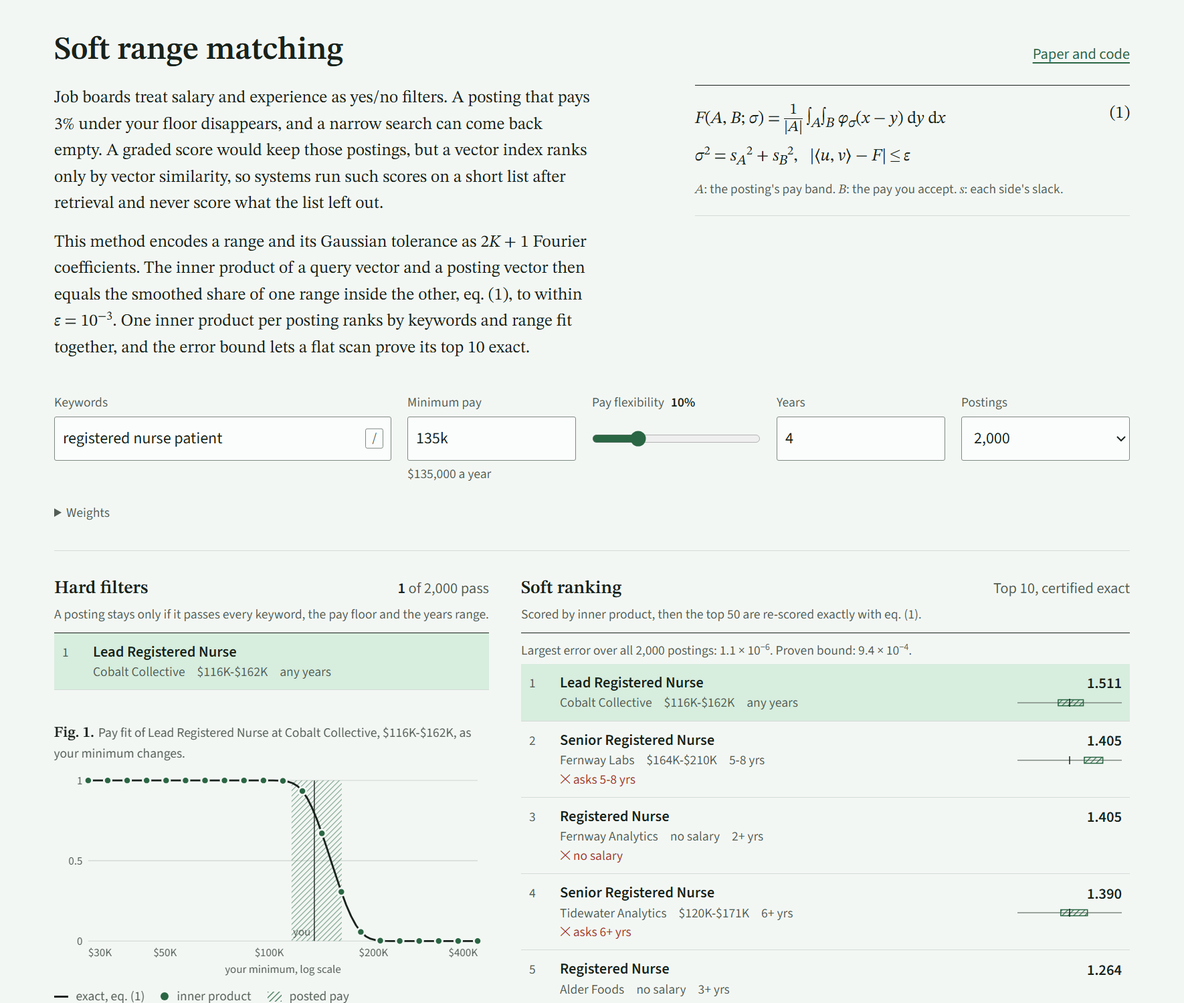
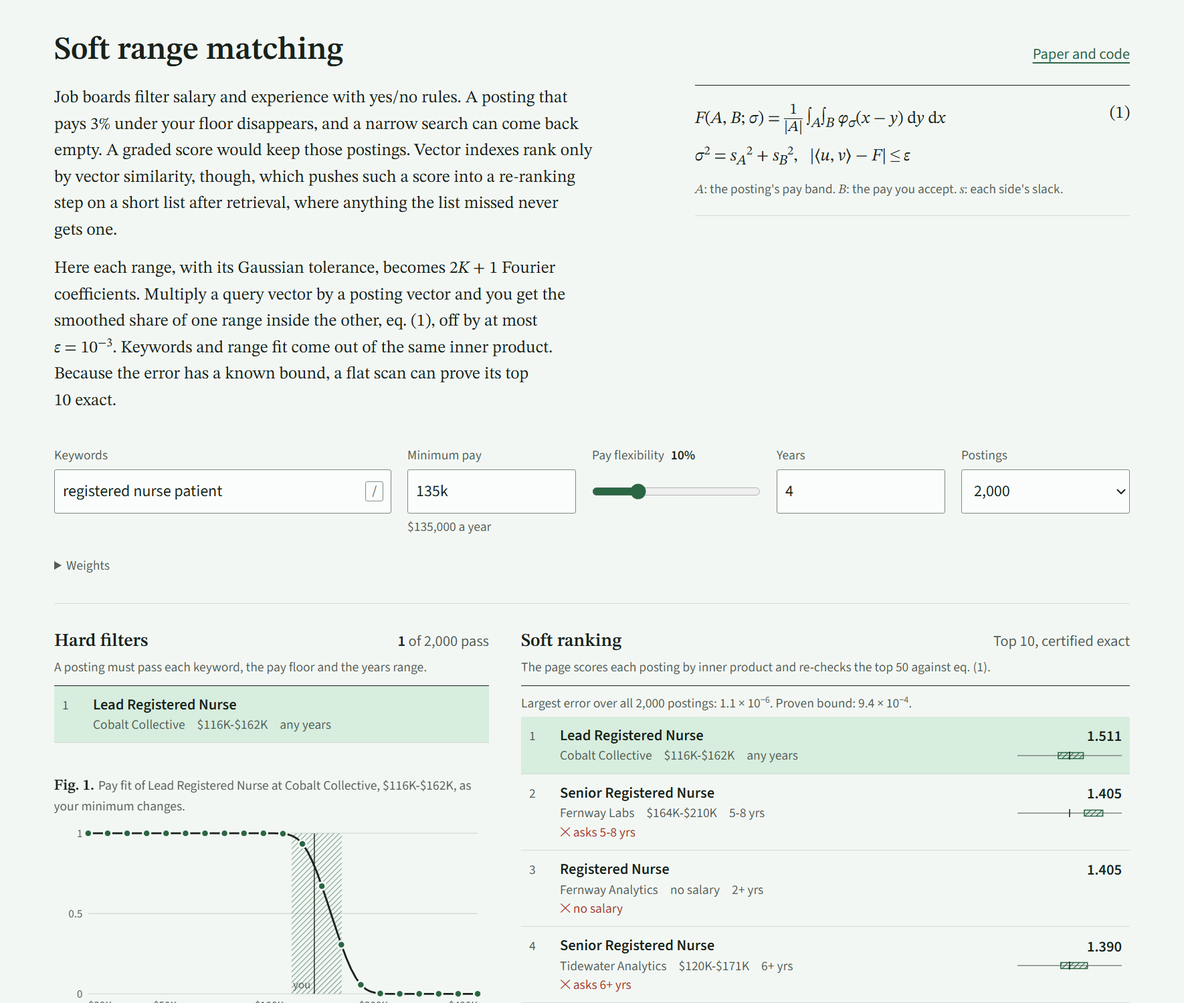
Rewrite the docs and demo text in plainer sentences

diff --git a/demo/index.html b/demo/index.html
@@ -144,8 +144,8 @@ th { font-weight: 600; color: var(--muted); border-bottom: var(--hair) solid var
     <a href="https://github.com/Juuzoe/ap-alg">Paper and code</a>
   </div>
   <div class="abstract">
-    <p>Job boards treat salary and experience as yes/no filters. A posting that pays 3% under your floor disappears, and a narrow search can come back empty. A graded score would keep those postings, but a vector index ranks only by vector similarity, so systems run such scores on a short list after retrieval and never score what the list left out.</p>
-    <p>This method encodes a range and its Gaussian tolerance as 2<var>K</var> + 1 Fourier coefficients. The inner product of a query vector and a posting vector then equals the smoothed share of one range inside the other, eq. (1), to within <span class="nw"><var>ε</var> = 10<sup>&minus;3</sup></span>. One inner product per posting ranks by keywords and range fit together, and the error bound lets a flat scan prove its top 10 exact.</p>
+    <p>Job boards filter salary and experience with yes/no rules. A posting that pays 3% under your floor disappears, and a narrow search can come back empty. A graded score would keep those postings. Vector indexes rank only by vector similarity, though, which pushes such a score into a re-ranking step on a short list after retrieval, where anything the list missed never gets one.</p>
+    <p>Here each range, with its Gaussian tolerance, becomes 2<var>K</var> + 1 Fourier coefficients. Multiply a query vector by a posting vector and you get the smoothed share of one range inside the other, eq. (1), off by at most <span class="nw"><var>ε</var> = 10<sup>&minus;3</sup></span>. Keywords and range fit come out of the same inner product. Because the error has a known bound, a flat scan can prove its top 10 exact.</p>
   </div>
   <div class="eq" role="math" aria-label="F of A and B with scale sigma is one over the length of A, times the double integral over A and B of the normal density of x minus y. Sigma squared is s A squared plus s B squared. The inner product of u and v differs from F by at most epsilon.">
     <p><var>F</var>(<var>A</var>, <var>B</var>; <var>σ</var>) = <span class="frac"><span>1</span><span>|<var>A</var>|</span></span> ∫<sub><var>A</var></sub>∫<sub><var>B</var></sub> <var>φ</var><sub><var>σ</var></sub>(<var>x</var> &minus; <var>y</var>) d<var>y</var> d<var>x</var></p>

diff --git a/paper/soft-range-matching.md b/paper/soft-range-matching.md
@@ -4,7 +4,7 @@ October 2026 · version 0.1 · code and benchmarks: [github.com/Juuzoe/ap-alg](h
 
 ## Abstract
 
-A salary or experience filter makes a yes/no decision, so a posting that pays 3% under a seeker's floor disappears and a narrow search can return nothing. A graded alternative scores the share of one range that falls inside another after Gaussian smoothing. That score has a closed form, but a vector index cannot evaluate a closed form, so systems apply it to a shortlist after retrieval. We show that the smoothed containment score, with an independent slack on the query side and on the stored side, equals the inner product of two Fourier feature vectors up to an error with a closed-form bound. The bound depends on the axis length and on the smallest and largest combined slack, so a target error fixes the vector length: 133 numbers for a salary range and 113 for an experience range at error $`10^{-3}`$. Over 4 million synthetic seeker-posting pairs the largest observed error was $`3.4\times10^{-4}`$. Every fused score lies within a known $`\Delta`$ of its exact value, which lets a flat scan prove its top 10 exact after re-scoring 50 of 20,000 postings. A k-means inverted file handles the concatenated vectors worse than text vectors: scanning 11% of the postings recovers 76% of the exact top 10, while text vectors with a 1,000-candidate re-score recover all of it. We release the code and the benchmarks under Apache 2.0.
+A salary or experience filter makes a yes/no decision. A posting that pays 3% under a seeker's floor disappears, and a narrow search can return nothing. A graded alternative scores the share of one range that falls inside another after Gaussian smoothing. That score has a closed form. A vector index cannot evaluate it, and systems end up applying it to a shortlist after retrieval. We show that the smoothed containment score, with an independent slack on the query side and on the stored side, equals the inner product of two Fourier feature vectors up to an error with a closed-form bound. Because the bound depends on the axis length and on the smallest and largest combined slack, a target error fixes the vector length: 133 numbers for a salary range and 113 for an experience range at error $`10^{-3}`$. Over 4 million synthetic seeker-posting pairs the largest observed error was $`3.4\times10^{-4}`$. Every fused score lies within a known $`\Delta`$ of its exact value, which lets a flat scan prove its top 10 exact after re-scoring 50 of 20,000 postings. A k-means inverted file handles the concatenated vectors worse than text vectors: scanning 11% of the postings recovers 76% of the exact top 10, while text vectors with a 1,000-candidate re-score recover all of it. We release the code and the benchmarks under Apache 2.0.
 
 ## 1 Introduction
 
@@ -14,7 +14,7 @@ The graded alternative studied here is the expected share of one interval that l
 
 This paper makes four contributions.
 
-1. An encoding of smoothed interval containment as an inner product in which each side carries its own Gaussian slack, so a query can change its tolerance without re-encoding the stored vectors (Section 3.2).
+1. An encoding of smoothed interval containment as an inner product in which each side carries its own Gaussian slack. A query can change its tolerance without re-encoding the stored vectors (Section 3.2).
 2. A deterministic bound on the encoding error that depends only on the axis and the slack range, and a rule that derives the vector length from a target error (Theorem 1, Corollary 1).
 3. Certified top-k retrieval for fused text-and-range scores, using the stopping rule of Seidl and Kriegel [10] with the bound from Theorem 1 (Proposition 2).
 4. An evaluation on a synthetic job market covering accuracy, alternative encodings of equal size, certified retrieval, a text-shortlist baseline and an inverted-file index (Section 5).
@@ -23,7 +23,7 @@ The mathematics is classical, and Section 6 lists the published work each compon
 
 ## 2 Problem
 
-All values for one attribute live on an axis $`[0, D]`$. Salary uses $`t = \ln(\text{pay}/15{,}000)`$ with pay in a year, so that a 10% tolerance has the same width at every pay level; experience uses years. An interval is $`I = [a, b]`$ with midpoint $`m = (a+b)/2`$, half-width $`h = (b-a)/2`$ and length $`\lvert I\rvert = b - a`$. A point is the interval with $`a = b`$. We truncate open-ended ranges such as "5+ years" at $`D + E`$, and the whole working domain is $`\Omega = [-E, D + E]`$.
+All values for one attribute live on an axis $`[0, D]`$. Salary uses $`t = \ln(\text{pay}/15{,}000)`$ with pay in a year, so that a 10% tolerance has the same width at every pay level. Experience uses years. An interval is $`I = [a, b]`$ with midpoint $`m = (a+b)/2`$, half-width $`h = (b-a)/2`$ and length $`\lvert I\rvert = b - a`$. A point is the interval with $`a = b`$. We truncate open-ended ranges such as "5+ years" at $`D + E`$, and the whole working domain is $`\Omega = [-E, D + E]`$.
 
 **Definition 1 (soft containment).** For a measured interval $`A`$, a reference interval $`B`$ and a scale $`\sigma > 0`$,
 
@@ -112,7 +112,7 @@ The terms of $`R_W`$ with $`j \ge 1`$ are below $`10^{-80}`$ for every axis in t
 
 **Corollary 1.** Given $`\varepsilon`$, set $`E = \sigma_{\max}\max(4, \bar\Phi^{-1}(\varepsilon/4))`$ and $`W = \sigma_{\max}\max(3, \bar\Phi^{-1}(\varepsilon/8)/2)`$, and take the smallest $`K`$ for which the bound of Theorem 1, open-end term included, is at most $`\varepsilon`$. Every pair then meets the requirement of Section 2 with $`d = 2K + 1`$, and $`K`$ grows in proportion to $`(P/\sigma_{\min})\sqrt{\ln(1/\varepsilon)}`$.
 
-The growth rate follows from $`e^{-cK^2} \approx \varepsilon`$. Doubling the axis or halving the smallest slack doubles the length, while each tenfold tightening of $`\varepsilon`$ adds about 30 numbers to a block at the settings of Section 3.6 (see the table there). The same scaling explains the logarithmic salary axis: a linear axis from \$15k to \$600k with the same relative tolerances would need many times more harmonics. The implementation accepts $`\varepsilon \ge 10^{-9}`$; below that, rounding in the closed form of Definition 1 exceeds $`\varepsilon`$ on wide axes, so the reference value itself stops being exact enough to test against.
+The growth rate follows from $`e^{-cK^2} \approx \varepsilon`$. Doubling the axis or halving the smallest slack doubles the length, while each tenfold tightening of $`\varepsilon`$ adds about 30 numbers to a block at the settings of Section 3.6 (see the table there). The same scaling explains the logarithmic salary axis: a linear axis from \$15k to \$600k with the same relative tolerances would need many times more harmonics. The implementation accepts $`\varepsilon \ge 10^{-9}`$. Below that, rounding in the closed form of Definition 1 exceeds $`\varepsilon`$ on wide axes, and the reference value is no longer exact enough to test against.
 
 ### 3.5 Fused scores and certified top-k
 
@@ -128,7 +128,7 @@ and the vector form concatenates the text embedding with one block per attribute
 
 *Proof.* Any posting $`j > M`$ has $`s_j \le \tilde s_j + \Delta \le \tilde s_{M+1} + \Delta`$, which is at most the $`k`$-th exact score already found. $`\square`$
 
-This is the multi-step k-nearest-neighbor algorithm of Seidl and Kriegel [10] written for similarities, with $`\tilde s + \Delta`$ as the upper bound. Our contribution at this step is the deterministic $`\Delta`$. If the test fails, $`M`$ doubles. A vector database that returns its best $`L + 1`$ results from an exact (flat) search supports the same test: re-score the first $`L`$ and use the $`(L+1)`$-th score as $`\tilde s_{M+1}`$. An approximate index can skip postings, so its results carry no certificate.
+This is the multi-step k-nearest-neighbor algorithm of Seidl and Kriegel [10] written for similarities, with $`\tilde s + \Delta`$ as the upper bound. Our contribution at this step is the deterministic $`\Delta`$. If the test fails, $`M`$ doubles. A vector database that returns its best $`L + 1`$ results from an exact (flat) search supports the same test: re-score the first $`L`$ and use the $`(L+1)`$-th score as $`\tilde s_{M+1}`$. Results from an approximate index carry no certificate, because the index can skip postings.
 
 ### 3.6 Instantiation for a job board
 
@@ -147,13 +147,13 @@ A posting without a salary scores a constant $`p_{\text{miss}}`$ (0.5 by default
 
 ## 4 Cost
 
-Encoding an interval takes $`K`$ sines, cosines and exponentials, once per posting at indexing time and once per query. Scoring a posting is one inner product of length $`d`$. The closed form of Definition 1 needs four evaluations of the normal CDF and four exponentials per pair. In plain JavaScript on one core, a scan of 20,000 postings took 13 to 20 ms with inner products and 15 to 16 ms with the closed form, so per pair the two cost about the same. The encoding pays off where an engine can rank only by inner product, as a vector index does, or where a system scores many queries at once as a matrix product on BLAS or a GPU.
+Encoding an interval takes $`K`$ sines, cosines and exponentials, once per posting at indexing time and once per query. Scoring a posting is one inner product of length $`d`$. The closed form of Definition 1 needs four evaluations of the normal CDF and four exponentials per pair. In plain JavaScript on one core, a scan of 20,000 postings took 13 to 20 ms with inner products and 15 to 16 ms with the closed form. Per pair, the two cost about the same. The encoding pays off where an engine can rank only by inner product, as a vector index does, or where a system scores many queries at once as a matrix product on BLAS or a GPU.
 
 ## 5 Experiments
 
 ### 5.1 Setup
 
-The benchmark generates a seeded synthetic market (`bench/market.js`). It has 20 roles at four levels. Salaries follow a log-normal spread around a role base times a level multiplier, with band half-widths between 5% and 20%. A quarter of the postings list no salary and a tenth list a single figure. Years requirements are absent for 10% of postings, open-ended ("$`r`$+") for 45% and bounded for 45%. Each posting's text vector is a 64-dimensional hashed bag of words over its title and skills. The 200 seekers each target one role, with a minimum salary around that role's pay, a pay flexibility up to 30%, 0 to 12 years of experience and up to 2 years of flexibility. The weights are 1 for text and 0.5 for each range. Everything below comes from `node bench/bench.js` and `node bench/ann.js`; reruns print the same numbers apart from timings.
+The benchmark generates a seeded synthetic market (`bench/market.js`). It has 20 roles at four levels. Salaries follow a log-normal spread around a role base times a level multiplier, with band half-widths between 5% and 20%. A quarter of the postings list no salary and a tenth list a single figure. Years requirements are absent for 10% of postings, open-ended ("$`r`$+") for 45% and bounded for 45%. Each posting's text vector is a 64-dimensional hashed bag of words over its title and skills. The 200 seekers each target one role, with a minimum salary around that role's pay, a pay flexibility up to 30%, 0 to 12 years of experience and up to 2 years of flexibility. The weights are 1 for text and 0.5 for each range. Everything below comes from `node bench/bench.js` and `node bench/ann.js`. Reruns print the same numbers apart from timings.
 
 ### 5.2 Accuracy
 
@@ -182,7 +182,7 @@ Table 2 spends a budget of about 133 numbers on the pay fit in two other ways, w
 | linear interpolation bins | 133 | $`2.2\times10^{-2}`$ | $`8.1\times10^{-4}`$ |
 | random Fourier features | 132 | 1.1 | 0.51 |
 
-Random features fail because they draw frequencies from the whole line, where the transform of an interval oscillates and decays only like $`1/\omega`$; the variance of the estimate stays near the size of the fit itself. Harmonics on the padded circle represent the same function with no error beyond the terms of Theorem 1. Curvature of the smoothed indicator between nodes biases the bins, an error of order $`h^2/\sigma^2`$ for node spacing $`h`$.
+Random features fail because they draw frequencies from the whole line, where the transform of an interval oscillates and decays only like $`1/\omega`$. The variance of the estimate stays near the size of the fit itself. Harmonics on the padded circle represent the same function with no error beyond the terms of Theorem 1. Curvature of the smoothed indicator between nodes biases the bins, an error of order $`h^2/\sigma^2`$ for node spacing $`h`$.
 
 ### 5.4 Certified retrieval
 
@@ -198,7 +198,7 @@ The common alternative ranks by text alone, keeps a shortlist and re-scores it w
 |---|---|---|---|---|
 | recall@10 | 0.480 | 0.792 | 1.000 | 1.000 |
 
-A flat scan of the fused vectors reaches 1.000 with 50 exact re-scores. The text pipeline needs 1,000, which here equals the size of one role in the market; the synthetic text vectors separate roles better than real embeddings would, so we read this as a lower bound on the shortlist a real system needs.
+A flat scan of the fused vectors reaches 1.000 with 50 exact re-scores. The text pipeline needs 1,000, the size of one role in this market. The synthetic text vectors separate roles better than real embeddings would, and we read 1,000 as a lower bound on the shortlist a real system needs.
 
 Table 4 places both kinds of vector in an inverted file with 128 lists, trained by k-means in L2 on a 4,000-posting sample and probed by the inner product between the query and each centroid [15]. For the fused vectors we re-score the best 50 candidates found in the probed lists; for text vectors, the best 1,000.
 
@@ -212,7 +212,7 @@ Table 4 places both kinds of vector in an inverted file with 128 lists, trained 
 | 16 | 10.6% / 11.7% | 0.758 | 1.000 | 1.000 |
 | 32 | 22.9% / 24.8% | 0.916 | 1.000 | 0.999 |
 
-The concatenated vectors make a poor index. Their range blocks have larger norms than the unit-length text block (mean 1.61 for salary and 4.14 for experience), so L2 k-means groups postings by pay and experience first, while the queries in this benchmark weight text twice as much as each range. Probing by centroid inner product then misses lists that hold the best matches. Adding the fused-vector candidates to the text candidates helps at small probe counts (0.939 against 0.884 at four lists). The union's 0.999 at 32 lists, below the 1.000 of text alone, comes from ties: six seekers have an exact tie between their 10th and 11th postings, and the measured recall depends on which tied posting a candidate set contains. On this evidence we recommend a flat scan, which is exact and certified, wherever a scan is affordable, and text-based candidate generation scored with the fused inner product beyond that. A quantizer trained for inner products over the fused vectors, for example with query-aware scaling of each block, may close the gap; we have not tested one.
+The concatenated vectors make a poor index. Their range blocks have larger norms than the unit-length text block (mean 1.61 for salary and 4.14 for experience). With those norms, L2 k-means groups postings by pay and experience first, while the queries in this benchmark weight text twice as much as each range. Probing by centroid inner product then misses lists that hold the best matches. Adding the fused-vector candidates to the text candidates helps at small probe counts (0.939 against 0.884 at four lists). The union's 0.999 at 32 lists, below the 1.000 of text alone, comes from ties: six seekers have an exact tie between their 10th and 11th postings, and the measured recall depends on which tied posting a candidate set contains. On this evidence we recommend a flat scan, which is exact and certified, wherever a scan is affordable, and text-based candidate generation scored with the fused inner product beyond that. A quantizer trained for inner products over the fused vectors, for example with query-aware scaling of each block, may close the gap. We have not tested one.
 
 ### 5.6 Effect on result sets
 
@@ -229,19 +229,19 @@ Of the 2,000 top-10 results of the fused ranking on the full market, 97.8% match
 
 ## 6 Related work
 
-Li et al. [1] convolve box indicators with Gaussians and rank by the volume of the intersection over the volume of one box; in one dimension this is Definition 1. They evaluate it per pair in closed form to train embeddings, without an inner-product form or an error bound. TEMPS [2] maps time intervals to Gaussians and adds a Gaussian-KL inclusion score to a dense retriever's cosine, again per pair and outside the vector product. Wei et al. [3] fold an exponential recency decay into the stored and query vectors so that unmodified inner-product indexes rank by semantic and freshness score together; their method scores one timestamp per item under an exact exponential decay, so intervals and approximation error do not arise.
+Li et al. [1] convolve box indicators with Gaussians and rank by the volume of the intersection over the volume of one box. In one dimension this is Definition 1. They evaluate it per pair in closed form to train embeddings, without an inner-product form or an error bound. TEMPS [2] maps time intervals to Gaussians and adds a Gaussian-KL inclusion score to a dense retriever's cosine, again per pair and outside the vector product. Wei et al. [3] fold an exponential recency decay into the stored and query vectors so that unmodified inner-product indexes rank by semantic and freshness score together. Their method scores one timestamp per item under an exact exponential decay. Intervals and approximation error do not arise there.
 
-Deterministic Fourier features appear in kernel approximation. Dao, De Sa and Ré [4] replace random frequencies with Gaussian quadrature and bound the resulting error, and Jagdt et al. [5] use harmonics on a padded period with Gaussian spectral weights, choosing the smallest truncation that meets a target error, as our Corollary 1 does. Both approximate a kernel between two points, so they never need the transform of an interval or a slack split across two vectors. Mip-NeRF [6] damps Fourier features by $`e^{-\sigma^2\omega^2/2}`$ to integrate them over a Gaussian region, and feeds them to a neural network as input features. Random Fourier features [7] are the standard randomized construction; Section 5.3 shows why they fail on interval integrals at this size.
+Deterministic Fourier features appear in kernel approximation. Dao, De Sa and Ré [4] replace random frequencies with Gaussian quadrature and bound the resulting error, and Jagdt et al. [5] use harmonics on a padded period with Gaussian spectral weights, choosing the smallest truncation that meets a target error, as our Corollary 1 does. Both approximate a kernel between two points and never need the transform of an interval or a slack split across two vectors. Mip-NeRF [6] damps Fourier features by $`e^{-\sigma^2\omega^2/2}`$ to integrate them over a Gaussian region, and feeds them to a neural network as input features. Random Fourier features [7] are the standard randomized construction. Section 5.3 shows why they fail on interval integrals at this size.
 
 Lee, Kim and Chung [8] estimate range selectivity from cosine-series coefficients, which is the same basis-integral inner product, applied to one aggregate density per table. Spatial Semantic Pointers [9] encode a region as the integral of phasor vectors and read graded membership from a dot product, with random frequencies and unit normalization and without a calibrated containment score or an error bound. Range-filtered approximate nearest-neighbor indexes [11, 12] evaluate interval predicates inside graph indexes as yes/no filters. Search engines grade a numeric field with decay functions around a point at scoring time [13], and some vector frameworks encode single numeric values as vector blocks [14]. The certified top-k step is the multi-step k-NN search of Seidl and Kriegel [10]. Shrivastava and Li [16] show that maximum inner product search over vectors of unequal norm differs from cosine search, which is consistent with Table 4.
 
 ## 7 Limitations and future work
 
-All results so far come from synthetic data. Real postings need pay-period and currency normalization, many omit a range, and the posted band may not be the band an employer will accept; evaluating on public postings with salary ranges is the next step.
+All results so far come from synthetic data. Real postings need pay-period and currency normalization, many omit a range, and the posted band may not be the band an employer will accept. Evaluating on public postings with salary ranges is the next step.
 
 The Gaussian slack model gives every value inside a band the same weight and bends both edges by the same amount, while a real employer may stretch upward sooner than downward.
 
-The fused score is additive, so a strong text match can compensate for a poor pay fit. Dealbreakers such as work authorization or location belong in hard filters. A re-score step can apply a soft conjunction, $`w_t\langle e_q, e_p\rangle + (w_{\text{pay}} + w_{\text{years}}) F_{\text{pay}} F_{\text{years}}`$, which never exceeds the additive score when the weights are non-negative and the fits lie in $`[0, 1]`$, so Proposition 2 holds for it.
+Because the fused score is additive, a strong text match can compensate for a poor pay fit. Dealbreakers such as work authorization or location belong in hard filters. A re-score step can apply a soft conjunction, $`w_t\langle e_q, e_p\rangle + (w_{\text{pay}} + w_{\text{years}}) F_{\text{pay}} F_{\text{years}}`$. It never exceeds the additive score when the weights are non-negative and the fits lie in $`[0, 1]`$, and Proposition 2 holds for it.
 
 The proof assumes the engine sums inner products in float64. An engine that does all its arithmetic in float32 measured about $`2\times10^{-6}`$ per unit weight on our data, inside the margin, but its worst case grows with the vector length and we have no proof for it. Each block handles one attribute, and joint ranges over several attributes would need a tensor-product construction whose length multiplies across attributes. The inverted-file results in Section 5.5 leave open how to index the fused vectors at scale without a flat scan.
 

diff --git a/README.md b/README.md
@@ -3,9 +3,11 @@
 [![test](https://github.com/Juuzoe/ap-alg/actions/workflows/test.yml/badge.svg)](https://github.com/Juuzoe/ap-alg/actions/workflows/test.yml)
 [![license](https://img.shields.io/badge/license-Apache--2.0-blue.svg)](LICENSE)
 
-A posting pays \$128k to \$138k. You want \$140k and would take 10% less. A salary filter drops the posting; this library scores it 0.66, and scores a \$90k to \$110k band 0.02. The score comes from a dot product of two fixed-length vectors, so a vector database can rank by text relevance and range fit in one query.
+This library scores how well one numeric range sits inside another, for example a posted salary band against the pay a job seeker asks for. It computes the score as a dot product of two fixed-length vectors, which lets any engine that ranks by inner product use it next to a text embedding.
 
-The library turns a numeric range and a Gaussian tolerance into a vector. The inner product of a query vector and a stored vector matches the smoothed containment score $`F`$ to within an error $`\varepsilon`$ you choose before encoding:
+Take a posting that pays \$128k to \$138k and a seeker who asks for \$140k with 10% flexibility. A salary filter drops the posting. Its fit here is 0.66. A \$90k to \$110k band gets 0.02.
+
+The guarantee, for ranges $`A`$ and $`B`$ with slack $`s_A`$ and $`s_B`$:
 
 ```math
 \bigl\lvert \langle u(A, s_A), v(B, s_B)\rangle - F(A, B; \sigma) \bigr\rvert \le \varepsilon,
@@ -15,13 +17,13 @@ F(A, B; \sigma) = \frac{1}{\lvert A\rvert}\int_A \int_B \varphi_\sigma(x - y)\,d
 \sigma^2 = s_A^2 + s_B^2
 ```
 
-$`F`$ is the expected share of range $`A`$ inside range $`B`$ once Gaussian noise blurs both edges. Each side keeps its own tolerance, so you can loosen a search without re-encoding the stored vectors. [The paper](paper/soft-range-matching.md) has the proofs and experiments.
+$`F`$ is the expected share of $`A`$ inside $`B`$ once Gaussian noise blurs both edges, and you pick $`\varepsilon`$ before encoding anything. Each side carries its own slack. A search can loosen its tolerance while the stored vectors stay as they are. Proofs and experiments are in [the paper](paper/soft-range-matching.md).
 
 ## Demo
 
 [![The demo: hard filters on the left, the soft ranking on the right, and a chart of the inner product against the exact fit](demo/screenshot.png)](https://juuzoe.github.io/ap-alg/demo/)
 
-[The demo](https://juuzoe.github.io/ap-alg/demo/) runs one job search through hard filters and through the soft ranking, side by side, over 2,000 or 20,000 synthetic postings. Click a posting to plot its exact pay fit against the inner product. `demo/index.html` opens from a clone as well.
+[The demo](https://juuzoe.github.io/ap-alg/demo/) runs one job search over 2,000 or 20,000 synthetic postings, once through hard filters and once through the soft ranking. Click a posting to plot its exact pay fit against the inner product. `demo/index.html` opens from a clone too.
 
 ## Install
 
@@ -29,7 +31,7 @@ $`F`$ is the expected share of range $`A`$ inside range $`B`$ once Gaussian nois
 npm install github:Juuzoe/ap-alg
 ```
 
-The package is one dependency-free file, [`soft-range.js`](soft-range.js), with TypeScript types. It runs in Node 18 or later and in the browser, where a classic `<script>` sets `window.softRange`.
+One file, [`soft-range.js`](soft-range.js), with no dependencies and with TypeScript types. It runs in Node 18 or later and in the browser, where a classic `<script>` tag exposes `window.softRange`.
 
 ## Quick start
 
@@ -46,11 +48,11 @@ const approx = customer.reduce((s, x, i) => s + x * shop[i], 0)   // 0.358275
 const exact = fit(16.5, 18, 9, 17, Math.hypot(0.3, 0.4))          // 0.358275, |approx - exact| <= hours.bound
 ```
 
-`true` marks the measured side, the range whose share inside the other you want. A point is a range of zero width: `encode(hours, 17.25, 17.25, 0.4, true)` scores a 17:15 arrival at 0.31, where a hard 17:00 cutoff gives 0. [examples/](examples) holds this script plus a rentals search on rent and floor area and the full job-board model.
+The fifth argument marks the measured side, the range whose share inside the other one you want. A point is a range with `lo === hi`. `encode(hours, 17.25, 17.25, 0.4, true)` scores a 17:15 arrival at 0.31 against the same opening hours, where a hard 17:00 cutoff would give 0. [examples/](examples) has this script, a search over flats by rent and floor area, and the full job-board model.
 
 ## Job-board model
 
-`jobModel()` sets up a log salary axis from \$15k to \$600k and an experience axis from 0 to 30 years, and lays out each posting as `[text embedding | salary | experience | 2 missing-value flags]`.
+`jobModel()` sets up two axes. Salary runs on a log scale from \$15k to \$600k a year and experience from 0 to 30 years. Each posting becomes one row: `[text embedding | salary | experience | 2 missing-value flags]`.
 
 ```js
 const { jobModel, topK } = require('ap-alg')
@@ -63,11 +65,11 @@ const row = M.encodeJob({ emb, salary: [120000, 150000], salaryStretch: 0.2, yea
 const { q, delta } = M.encodeSeeker({ emb, minSalary: 140000, salaryFlex: 0.1, years: 4, yearsFlex: 1, wText: 1, wSalary: 0.5, wYears: 0.5 })
 ```
 
-At $`\varepsilon = 10^{-3}`$ the salary block takes 133 numbers and the experience block 113. A posting with no salary scores 0.5 on pay, and one with no years requirement scores 1. [`soft-range.d.ts`](soft-range.d.ts) documents each field.
+At $`\varepsilon = 10^{-3}`$ the salary block is 133 numbers long and the experience block 113. A posting without a salary scores 0.5 on pay. One with no years requirement scores 1. [`soft-range.d.ts`](soft-range.d.ts) documents every field.
 
 ## Vector databases
 
-Use an engine that ranks by raw inner product. Cosine similarity normalizes the vectors and breaks the score.
+Any engine that ranks by raw inner product works. Cosine similarity does not, because it normalizes the vectors.
 
 | engine | setting |
 |---|---|
@@ -78,20 +80,20 @@ Use an engine that ranks by raw inner product. Cosine similarity normalizes the 
 | Elasticsearch | `dense_vector` with `similarity: max_inner_product` (`dot_product` expects unit-length vectors) |
 | OpenSearch | `knn_vector` with `space_type: innerproduct` |
 
-An exact search can prove its top k. Fetch L + 1 hits, re-score the first L with `exactScore`, and pass the score of hit L + 1 as `unseen`:
+With an exact (flat) search you can prove the top k is right. Fetch L + 1 hits, re-score the first L with `exactScore`, and pass the last hit's score as `unseen`:
 
 ```js
 // hits: the best L + 1 results of an exact (flat) search, as [{ id, score }]
 const seen = hits.slice(0, -1), unseen = hits[hits.length - 1].score
 const { top, certified } = topK(seen.map(h => h.score), i => M.exactScore(seeker, postings[seen[i].id]).score, 10, delta, unseen)
-// certified === false: the top 10 may continue past hit L, so fetch more hits and run topK again.
+// certified === false: the top 10 may continue past hit L. Fetch more hits and run topK again.
 ```
 
-Approximate indexes such as IVF and HNSW skip postings, so their results carry no proof. A flat scan of 20,000 postings took 13 to 20 ms in plain JavaScript on one core; past the size you can scan, shortlist by text and re-score the shortlist.
+Approximate indexes such as IVF and HNSW can skip postings, which rules the proof out. A flat scan of 20,000 postings took 13 to 20 ms in plain JavaScript on one core. For larger sets, shortlist by text and re-score the shortlist.
 
 ## Results
 
-From `bench/` on a seeded synthetic market of 20,000 postings and 200 seekers, with float32 vectors (paper, Section 5):
+From `bench/`, on a seeded synthetic market of 20,000 postings and 200 seekers with float32 vectors (paper, Section 5):
 
 | | |
 |---|---|
@@ -103,7 +105,7 @@ From `bench/` on a seeded synthetic market of 20,000 postings and 200 seekers, w
 | text shortlist with exact re-score, recall@10 | 0.48 at 50 candidates, 0.79 at 200, 1.00 at 1,000 |
 | k-means inverted file, recall@10 at 11% scanned | 0.76 for the fused vectors, 1.00 for text vectors with a 1,000-candidate re-score |
 
-The range blocks have larger norms than the text block, so k-means groups the fused vectors by pay and experience and misses good matches. The data in all rows is synthetic.
+The k-means row is the weak spot. The range blocks have larger norms than the text block, k-means clusters on pay and experience, and good matches land in lists the probe never opens. The data behind every row is synthetic.
 
 ## Reproduce
 
@@ -119,11 +121,11 @@ npm run bench
 npm run examples
 ```
 
-The benchmarks use fixed seeds and print the paper's tables; timings differ between machines.
+The benchmarks use fixed seeds and print the paper's tables. Only the timings change from machine to machine.
 
 ## Contributing
 
-Issues and pull requests are welcome; see [CONTRIBUTING.md](CONTRIBUTING.md). Two open problems: an evaluation on real postings that publish salary ranges, and an index that keeps recall on the fused vectors.
+Issues and pull requests are welcome, see [CONTRIBUTING.md](CONTRIBUTING.md). Two problems are open: testing on real postings that publish salary ranges, and an index that keeps recall on the fused vectors.
 
 ## Citing
 

diff --git a/demo/README.md b/demo/README.md
@@ -1,22 +1,22 @@
 # Demo
 
-`index.html` runs one job search two ways. The left column keeps a posting if it passes each keyword, the pay floor and the years range. The right column scores each posting with one inner product, re-scores the best 50 with the closed form and says whether it can prove the top 10 exact. The chart plots one posting's exact pay fit against the inner product, and the header defines the score as equation (1).
+`index.html` runs one job search two ways. The left column keeps a posting if it passes each keyword, the pay floor and the years range. The right column scores every posting with one inner product, re-scores the best 50 with the closed form and reports whether it can prove the top 10 exact. Click a posting and the chart plots its exact pay fit against the inner product. The header defines the score as equation (1).
 
 ## Running it
 
-Open `index.html` from a full clone. The page loads `../soft-range.js` and `../bench/market.js` as classic scripts, which browsers allow from `file://`, so a double-click works. A static server works too:
+Open `index.html` from a full clone. The page loads `../soft-range.js` and `../bench/market.js` as classic scripts, which browsers allow from `file://`, and double-clicking the file works. A static server works as well:
 
 ```bash
 python -m http.server 8000
 ```
 
-Run it from the repository root and open `http://localhost:8000/demo/`. GitHub Pages serves the repository root as it is, and the root `index.html` forwards here.
+Start it from the repository root and open `http://localhost:8000/demo/`. On GitHub Pages the root `index.html` forwards here.
 
 ## Details
 
-The postings come from `bench/market.js` with a fixed seed, the generator the benchmarks use. The page encodes each posting once and keeps flexibility and weights in the query vector, so a slider re-ranks without re-encoding.
+The postings come from `bench/market.js` with a fixed seed, the same generator the benchmarks use. The page encodes each posting once. Flexibility and weights live in the query vector, and moving a slider re-ranks without re-encoding anything.
 
-The URL holds the search, so a link or a refresh restores it. `/` jumps to the keywords and `Escape` clears them. On a focused chart, the arrow keys, `Home` and `End` move the crosshair.
+The search lives in the URL. Reload the page or share the link and you get the same results. Press `/` to jump to the keywords and `Escape` to clear them. With the chart focused, the arrow keys, `Home` and `End` move the crosshair.
 
 | file | contents |
 |---|---|

diff --git a/CONTRIBUTING.md b/CONTRIBUTING.md
@@ -18,17 +18,17 @@ npm run examples
 npm run bench
 ```
 
-The tests run in a few seconds, and CI runs them on Node 20, 22 and 24 for each push. `npm run bench` reprints the paper's tables in about 35 seconds.
+The tests take a few seconds. CI runs them on Node 20, 22 and 24 for each push. `npm run bench` reprints the paper's tables in about 35 seconds.
 
 ## Pull requests
 
 - Keep `soft-range.js` free of dependencies and loadable as a Node module and as a browser `<script>`.
-- Add a test to `test.js` for any behaviour you change. The bound tests compare thousands of encoded pairs against `fit()`, so a change that breaks the guarantee fails there.
+- Add a test to `test.js` for any behaviour you change. The bound tests compare thousands of encoded pairs against `fit()` and will catch a change that breaks the guarantee.
 - If a change moves a benchmark number, update the tables in `paper/soft-range-matching.md` and `README.md` in the same pull request.
 - Match the surrounding style: two-space indent, single quotes, no semicolons.
 
 ## Reporting a wrong result
 
-The most useful report gives an input where the dot product and `fit()` differ by more than `axis(...).bound`, with the `axis` arguments, the two intervals and their slacks, and your Node version.
+The most useful report is an input where the dot product and `fit()` differ by more than `axis(...).bound`. Include the `axis` arguments, the two intervals with their slacks, and your Node version.
 
 Contributions fall under the Apache License 2.0, per section 5 of [LICENSE](LICENSE). Please follow the [code of conduct](CODE_OF_CONDUCT.md).

diff --git a/SECURITY.md b/SECURITY.md
@@ -1,5 +1,5 @@
 # Security
 
-The library does arithmetic on the numbers you pass in. The demo page renders text from its URL, so an injection bug there would be a real vulnerability.
+The library does arithmetic on the numbers you pass in. The demo page renders text from its URL, and an injection bug there would be a real vulnerability.
 
 Report one through GitHub's [private vulnerability reporting](https://docs.github.com/en/code-security/security-advisories/guidance-on-reporting-and-writing-information-about-vulnerabilities/privately-reporting-a-security-vulnerability) on this repository. If the form is unavailable, open an issue without the details and ask for a private channel.
